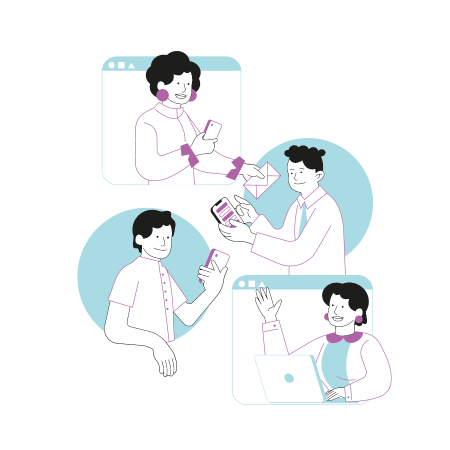
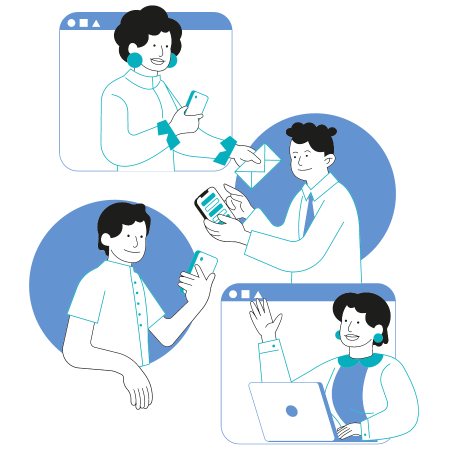
added images

diff --git a/blogs.html b/blogs.html
@@ -96,7 +96,7 @@ https://templatemo.com/tm-574-mexant
           <div class="row">
             <div class="col-lg-6">
               <div class="left-image">
-                <img src="assets/images/stat.jpg" alt="">
+                <img src="assets/images/Services.png" alt="">
               </div>
             </div>
             <div class="col-lg-6 align-self-center">
@@ -137,7 +137,7 @@ https://templatemo.com/tm-574-mexant
             </div>
             <div class="col-lg-6">
               <div class="right-image">
-                <img src="assets/images/stat2.jpg" alt="">
+                <img src="assets/images/trans.png" alt="">
               </div>
             </div>
           </div>
@@ -188,7 +188,7 @@ https://templatemo.com/tm-574-mexant
             </div>
             <div class="col-lg-6">
               <div class="right-image">
-                <img src="assets/images/ux.jpg" alt="">
+                <img src="assets/images/ui.png" alt="">
               </div>
             </div>
           </div>
@@ -199,7 +199,7 @@ https://templatemo.com/tm-574-mexant
           <div class="row">
             <div class="col-lg-6">
               <div class="left-image">
-                <img src="assets/images/software.jpg" alt="">
+                <img src="assets/images/top.png" alt="">
               </div>
             </div>
             <div class="col-lg-6 align-self-center">
@@ -237,7 +237,7 @@ https://templatemo.com/tm-574-mexant
             </div>
             <div class="col-lg-6">
               <div class="right-image">
-                <img src="assets/images/ux2.jpg" alt="">
+                <img src="assets/images/mini.png" alt="">
               </div>
             </div>
           </div>
